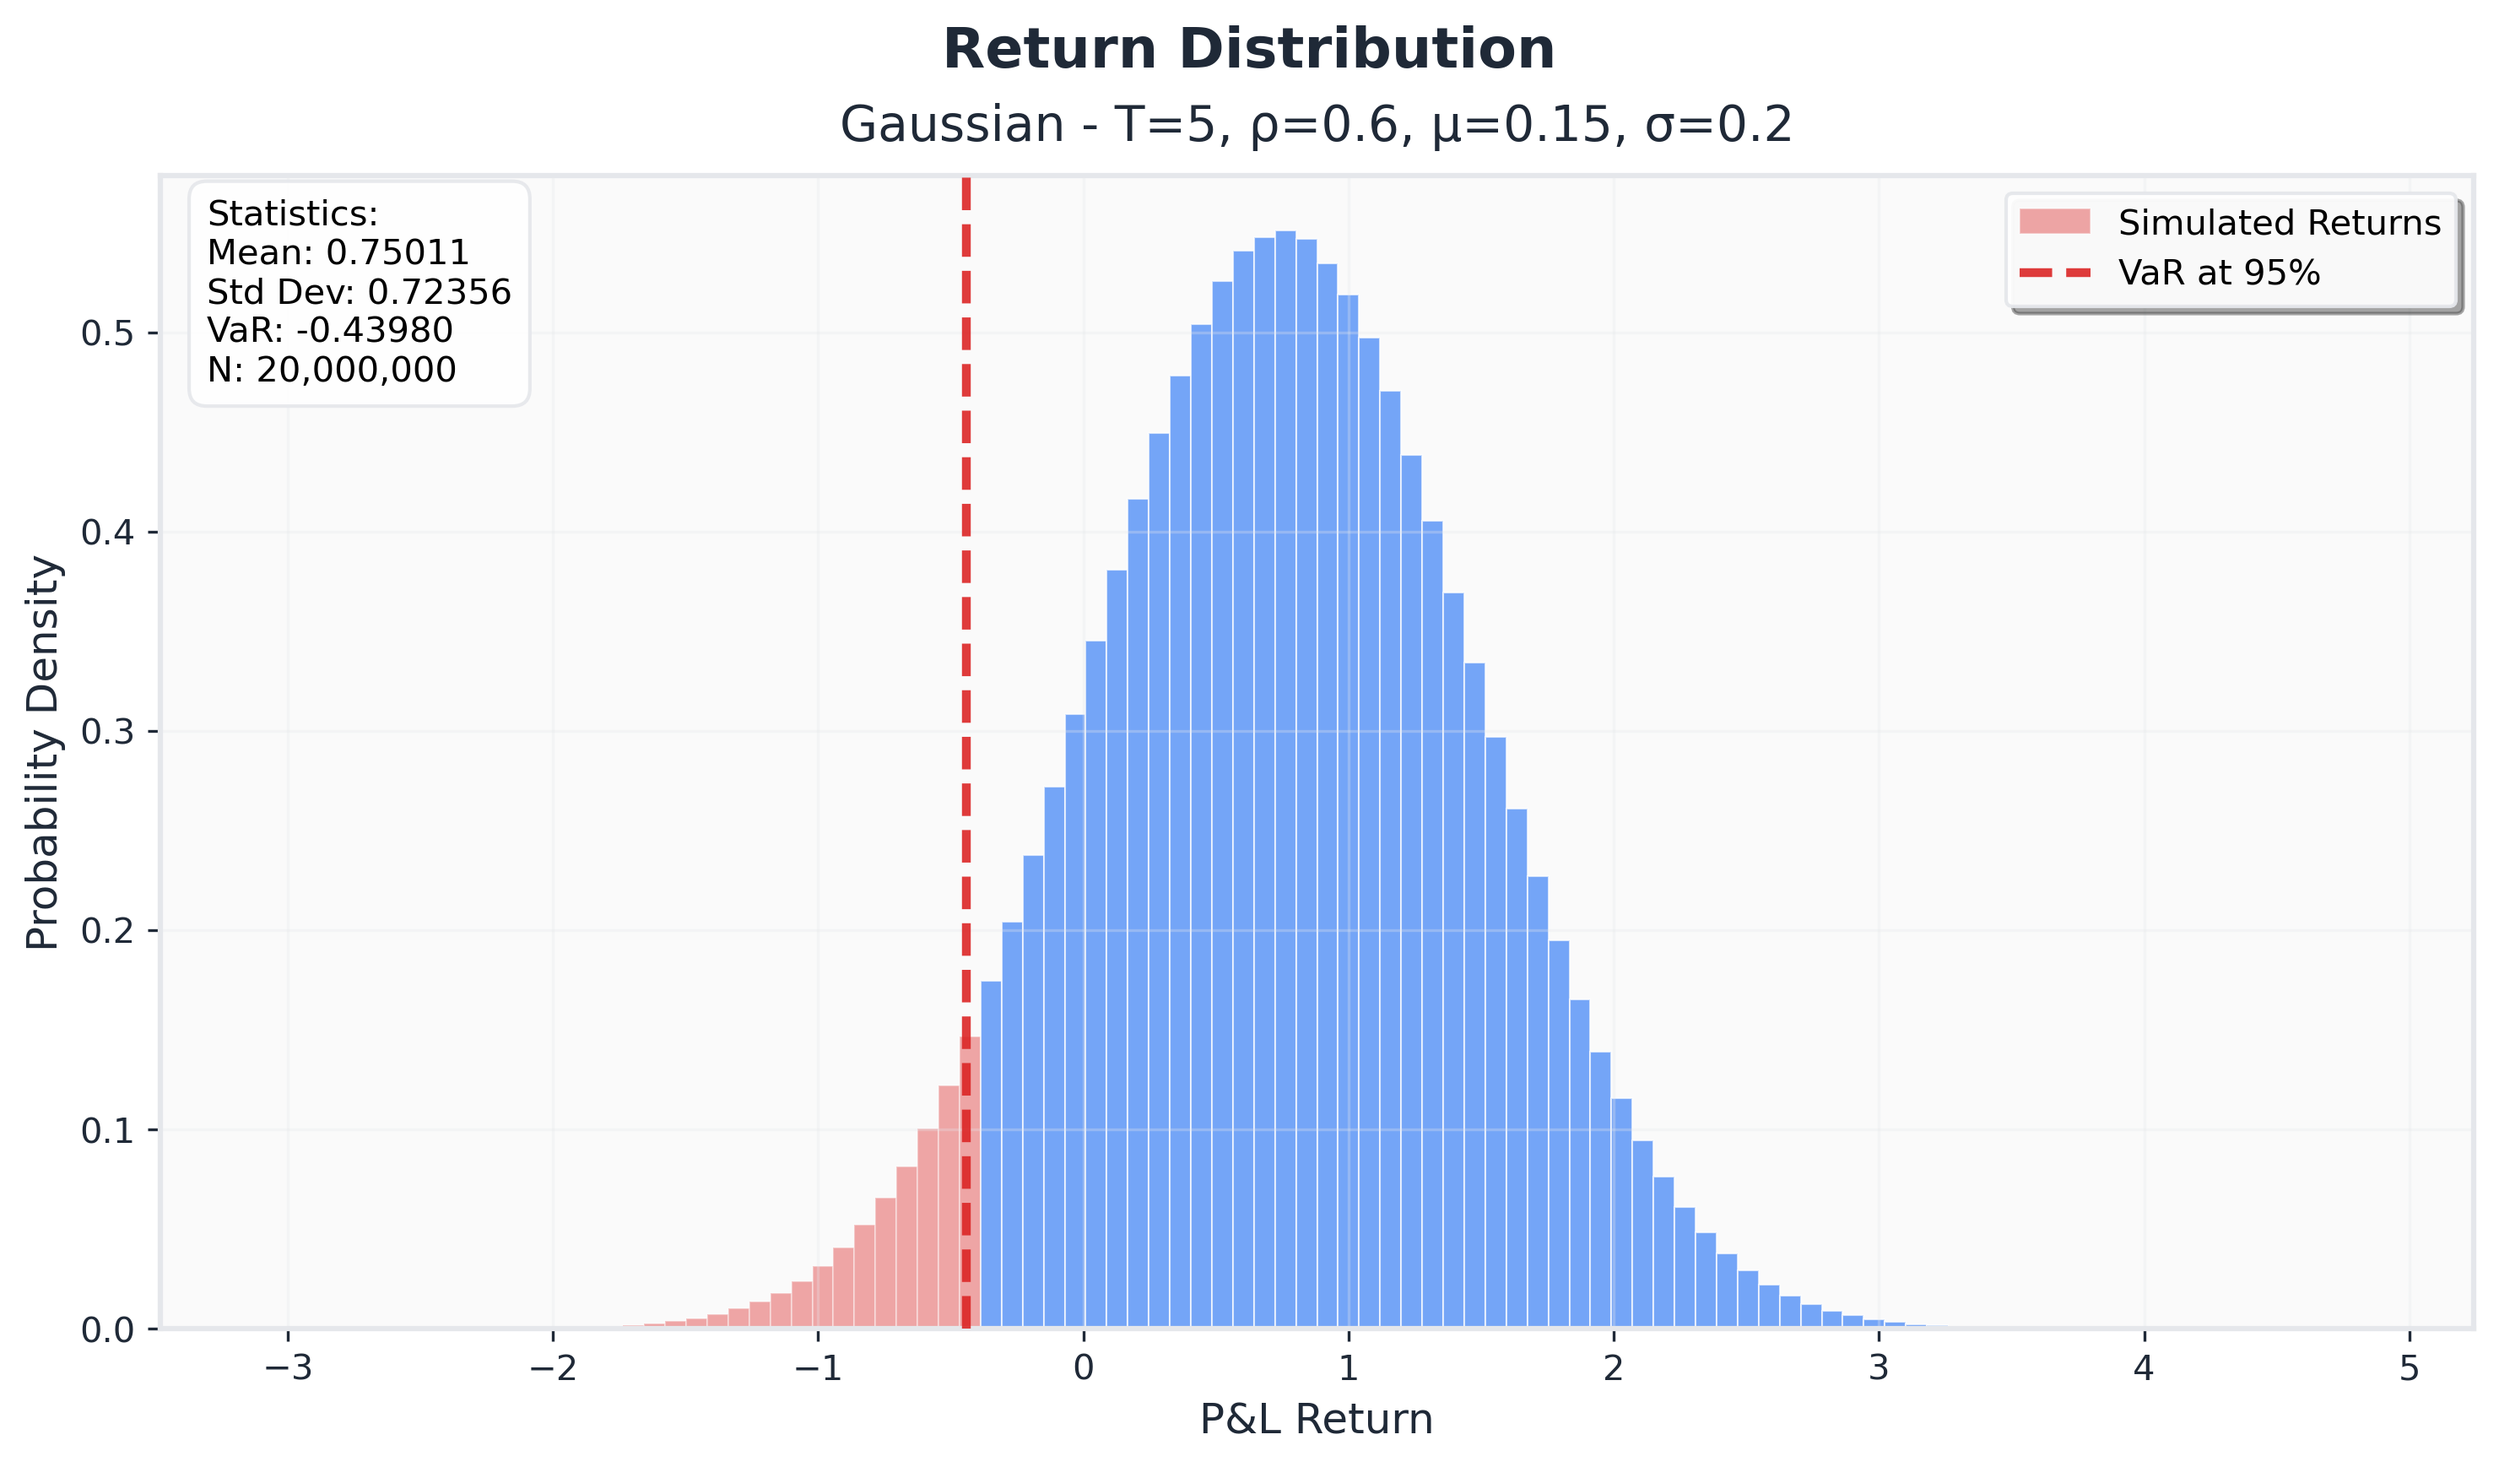
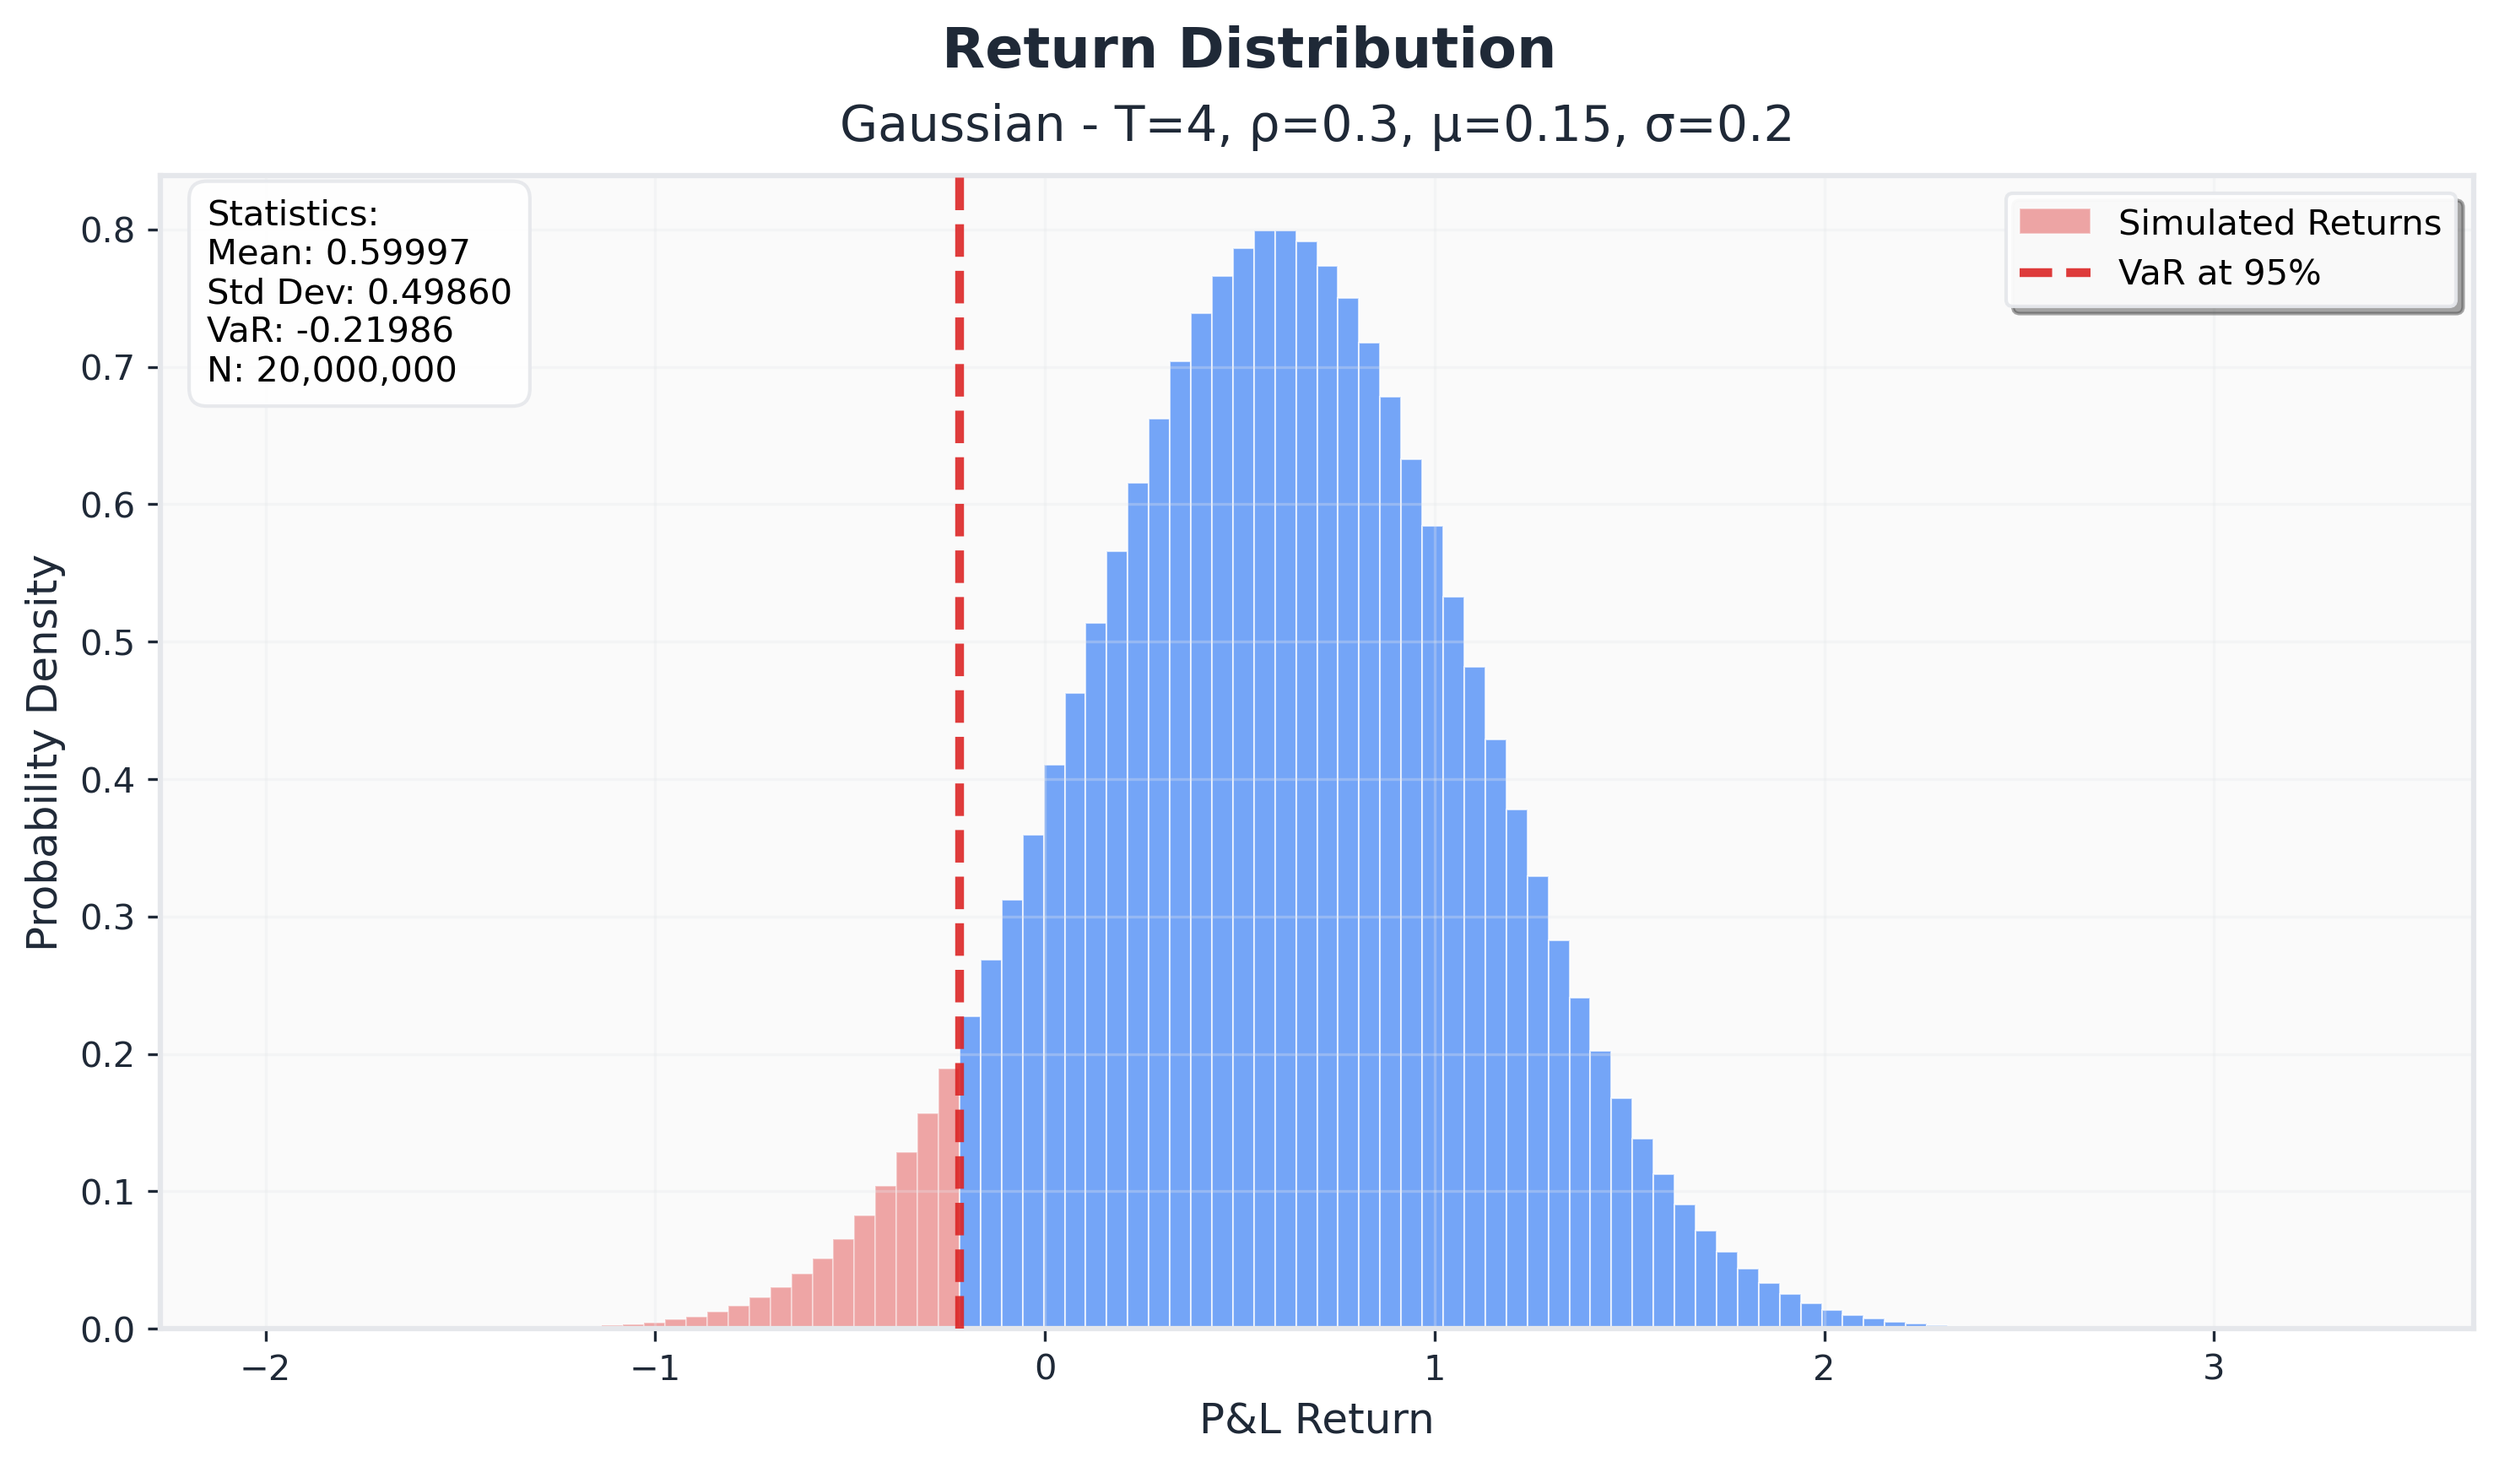
distribution for slide for now

diff --git a/graphs/distribtion.py b/graphs/distribtion.py
@@ -40,11 +40,11 @@ sigma = 0.20                   # Daily volatility (20%)
 confidence_level = 0.95        # VaR confidence level
 
 # Multi-day and distribution settings
-T = 5                          # Number of days for multi-day VaR
+T = 4                          # Number of days for multi-day VaR
 dist = "gaussian"              # Distribution: "gaussian", "student-t", "skewnorm"
 df = 3                         # Degrees of freedom for Student-t
 skew_alpha = 7.0               # Skew parameter for skew-normal
-rho = 0.6                      # AR(1) correlation coefficient
+rho = 0.3                      # AR(1) correlation coefficient
 
 # Simulation settings
 theoretical_N = 10**7 * 2 # Samples for theoretical VaR estimation
